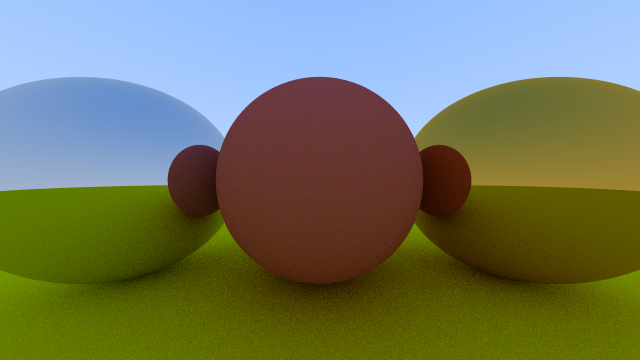
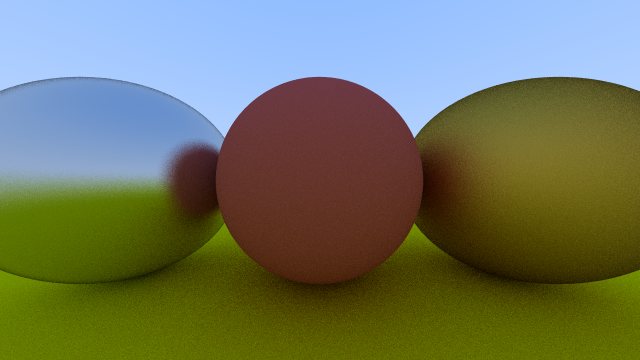
Add fuzziness to metal

diff --git a/src/material.rs b/src/material.rs
@@ -26,18 +26,25 @@ impl Material for Lambertian {
 
 pub struct Metal {
     albedo: Color,
+    fuzz: f64,
 }
 
 impl Metal {
-    pub fn new(albedo: Color) -> Self {
-        Self { albedo }
+    pub fn new(albedo: Color, fuzz: f64) -> Self {
+        Self {
+            albedo,
+            fuzz: fuzz.min(1.0),
+        }
     }
 }
 
 impl Material for Metal {
     fn scatter(&self, r_in: &Ray, rec: &HitRecord) -> Option<(Color, Ray)> {
         let reflected = r_in.direction().unit().reflect(&rec.normal());
-        let scattered = Ray::new(rec.p(), reflected);
+        let scattered = Ray::new(
+            rec.p(),
+            reflected + self.fuzz * Vec3::random_in_unit_sphere(),
+        );
 
         if scattered.direction().dot(&rec.normal()) > 0.0 {
             Some((self.albedo, scattered))

diff --git a/src/main.rs b/src/main.rs
@@ -29,12 +29,12 @@ fn main() {
     world.add(Sphere::new(
         Point3::new(-1.0, 0.0, -1.0),
         0.5,
-        Metal::new(Color::new(0.8, 0.8, 0.8)),
+        Metal::new(Color::new(0.8, 0.8, 0.8), 0.3),
     ));
     world.add(Sphere::new(
         Point3::new(1.0, 0.0, -1.0),
         0.5,
-        Metal::new(Color::new(0.8, 0.6, 0.2)),
+        Metal::new(Color::new(0.8, 0.6, 0.2), 1.0),
     ));
 
     // set up camera
